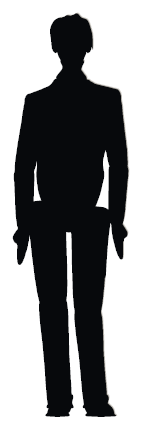
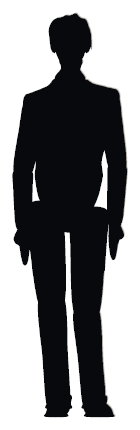
court-3 corridor 09:20 standees: final-plate occlusion, Ethan moved onto the light streak, hands hang along the arm
Claude-Session: https://claude.ai/code/session_01G8FC15sLW17Be3jTGciJcG

diff --git a/tools/standee/figs.py b/tools/standee/figs.py
@@ -553,7 +553,7 @@ def ethan_free():
     sk = stance(weight='l', pelvis_x=-0.022, tilt=0.014, sh_y=1.44, sh_w=0.192, sh_tilt=0.012, feet=(0.10, 0.105), waist=(0.15, 1.06),
                 elbow=(0.212, 1.105), wrist=(0.205, 0.862))
     sk['trouser'] = (0.17, 0.12, 0.10); sk['arm'] = (0.098, 0.084, 0.066)
-    sk['hand_dir_l'] = (-0.12, -1.0); sk['hand_dir_r'] = (0.12, -1.0)   # open hands, fingers down and a little out
+    sk['hand_dir_l'] = (0.06, -1.0); sk['hand_dir_r'] = (-0.06, -1.0)   # open hands hanging, fingers a touch in toward the thigh (turned out they read as flippers)
     sk['shoes'] = [shoe_front(sk['ankle_l'][0], out=-0.022), shoe_front(sk['ankle_r'][0], out=0.025)]
     sk['neck_base'] = (sk['neck_base'][0], sk['neck_base'][1] + 0.01); sk['neck_top'] = (sk['neck_top'][0], 1.592)
     hc = (sk['neck_top'][0] - 0.004, 1.662); sk['head'] = head(hc, w=0.150, h=0.228)
